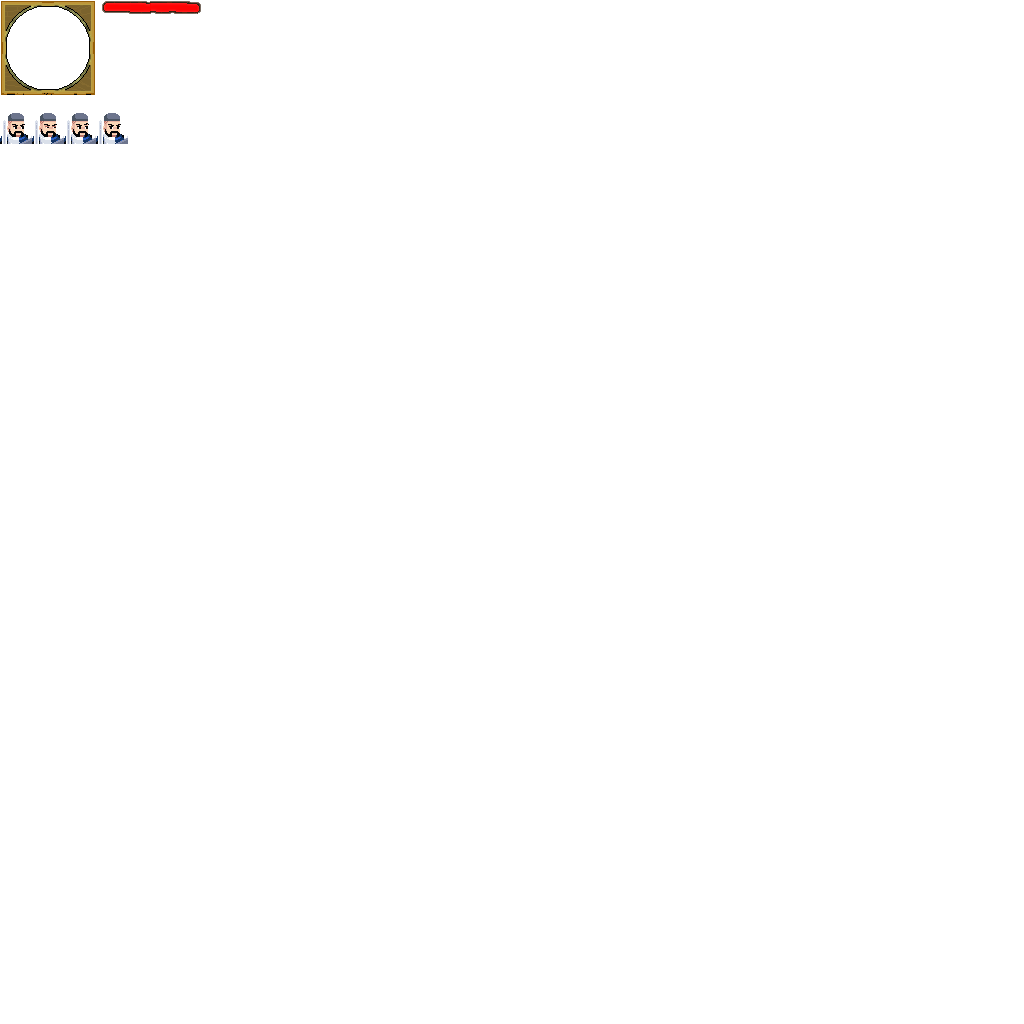
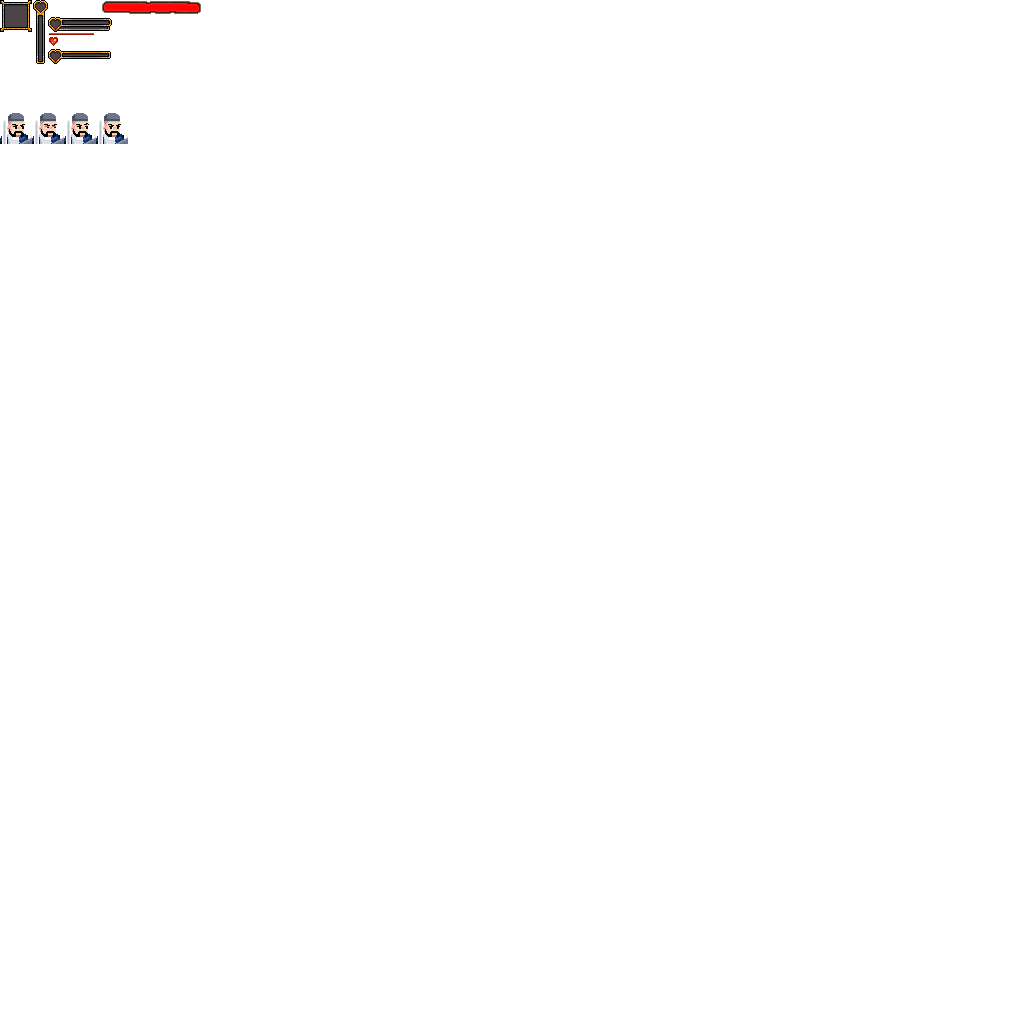
adds new ui, gl-scissor'd character portrait
* removed console input, unused anyways
 * new ui: healthbar and portrait frame
 * tiny glScissor experiment with correct highdpi handling

Changed region(s): [[0.0, 0.0, 0.125, 0.0938]]

diff --git a/src/scenes/battle.c b/src/scenes/battle.c
@@ -532,22 +532,22 @@ static void draw(struct scene_battle_s *scene, struct engine_s *engine) {
 	// draw ui
 	pipeline_reset(&g_ui_pipeline);
 	{
-		drawcmd_t cmd = DRAWCMD_INIT;
-		cmd.size.x = 96 - 16;
-		cmd.size.y = 96 - 16;
-		cmd.position.x = 8.0f;
-		cmd.position.y = 8.0f;
-		cmd.position.z = 0.0f;
-		drawcmd_set_texture_subrect(&cmd, g_ui_pipeline.texture, ((int)engine->time_elapsed % 2) ? 0 : ((int)engine->time_elapsed % 7 == 0) ? 64 : 96, 112, 32, 32);
-		pipeline_emit(&g_ui_pipeline, &cmd);
-
+		drawcmd_t cmd;
 		cmd = DRAWCMD_INIT;
 		cmd.size.x = 96;
 		cmd.size.y = 96;
-		cmd.position.x = 0.0f;
-		cmd.position.y = 0.0f;
+		cmd.position.x = engine->window_width - 96 - 4;
+		cmd.position.y = 4;
 		cmd.position.z = 0.0f;
-		drawcmd_set_texture_subrect(&cmd, g_ui_pipeline.texture, 0, 0, 96, 96);
+		drawcmd_set_texture_subrect(&cmd, g_ui_pipeline.texture, 0, 0, 32, 32);
+		pipeline_emit(&g_ui_pipeline, &cmd);
+
+		cmd = DRAWCMD_INIT;
+		cmd.size.x = 48;
+		cmd.size.y = 196;
+		cmd.position.x = 1;
+		cmd.position.y = 4;
+		drawcmd_set_texture_subrect(&cmd, g_ui_pipeline.texture, 32, 0, 16, 64);
 		pipeline_emit(&g_ui_pipeline, &cmd);
 
 		float hp = fabsf(cosf(engine->time_elapsed));
@@ -570,7 +570,7 @@ static void draw(struct scene_battle_s *scene, struct engine_s *engine) {
 		glm_ortho(-size, size, -size * g_engine->window_aspect, size * g_engine->window_aspect, 1.0f, 500.0f, perspective);
 		mat4 view = GLM_MAT4_IDENTITY_INIT;
 		mat4 model = GLM_MAT4_IDENTITY_INIT;
-		glm_translate(model, (vec3){ -100.0f, 0.0f, -200.0f });
+		glm_translate(model, (vec3){ 0.0f, -200.0f, -300.0f });
 		glm_rotate_x(model, glm_rad(35.0f), model);
 		glm_rotate_y(model, glm_rad(sinf(g_engine->time_elapsed * 2.0f) * 80.0f), model);
 		glm_scale(model, (vec3){ 100.0f, 100.0f, 100.0f});
@@ -585,8 +585,22 @@ static void draw(struct scene_battle_s *scene, struct engine_s *engine) {
 
 		// draw
 		glEnable(GL_DEPTH_TEST);
+
 		shader_set_uniform_mat3(&g_model.shader, "u_normalMatrix", (float*)normalMatrix);
 		model_draw(&g_model, perspective, view, model);
+
+		// model 2
+		glm_mat4_identity(model);
+		glm_translate(model, (vec3){ engine->window_width - 100.0f, engine->window_height - 240.0f, -300.0f });
+		glm_rotate_x(model, glm_rad(10.0f + cosf(g_engine->time_elapsed) * 10.0f), model);
+		glm_rotate_y(model, glm_rad(sinf(g_engine->time_elapsed) * 40.0f), model);
+		glm_scale(model, (vec3){ 75.0f, 75.0f, 75.0f});
+		const float pr = engine->window_pixel_ratio;
+		glEnable(GL_SCISSOR_TEST);
+		glScissor(engine->window_width * pr - 85.0f * pr, engine->window_height * pr - 85.0f * pr, 66 * pr, 66 * pr);
+		model_draw(&g_model, perspective, view, model);
+		glDisable(GL_SCISSOR_TEST);
+
 		glDisable(GL_DEPTH_TEST);
 	}
 }

diff --git a/src/engine.c b/src/engine.c
@@ -223,7 +223,6 @@ static void on_window_resized(struct engine_s *engine, int w, int h) {
 	glViewport(0, 0, w * window_dpi_scale_x, h * window_dpi_scale_y);
 	glm_ortho(0.0f, w, h, 0.0f, -1.0f, 1.0f, engine->u_projection);
 	//glm_ortho(-1.0f, 1.0f, -1.0f * engine->window_aspect, 1.0f * engine->window_aspect, -1.0f, 1.0f, engine->u_projection);
-
 }
 
 
@@ -476,10 +475,8 @@ static void engine_poll_events(struct engine_s *engine) {
 				}
 				break;
 			case SDL_TEXTINPUT:
-				console_add_input_text(engine->console, event.text.text);
 				break;
 			case SDL_TEXTEDITING:
-
 				break;
 			case SDL_KEYDOWN:
 			case SDL_KEYUP:
@@ -576,7 +573,7 @@ static void engine_gameserver_receive(struct engine_s *engine) {
 			// handle multiple json objects in a single message
 			const char *begin = data;
 			while (begin != NULL && begin < data + data_len) {
-				// find the end of this object
+				// TODO: this is garbage. find the end of this object
 				const char *end = str_match_bracket(begin, data_len, '{', '}');
 				if (end == NULL) break;
 

diff --git a/src/gui/console.c b/src/gui/console.c
@@ -21,17 +21,12 @@ static void get_color_for_msg(struct console_msg_s *, NVGcolor *bg, NVGcolor *fg
 void console_init(struct console_s *console) {
 	console->messages_max = 16;
 	console->messages_count = 0;
-	console->input_text_maxlen = 1024;
-	console->input_text = malloc(console->input_text_maxlen * sizeof(char));
 }
 
 void console_destroy(struct console_s *console) {
 	for (size_t i = 0; i < console->messages_count; ++i) {
 		free(console->messages[i].message);
 	}
-
-	free(console->input_text);
-	console->input_text_maxlen = 0;
 }
 
 void console_update(struct console_s *console, struct engine_s *engine, float dt) {
@@ -134,11 +129,6 @@ void console_draw(struct console_s *console, struct engine_s *engine) {
 		nvgText(vg, msg_x, msg_y + 1.0f, msg->message, NULL);
 	}
 
-}
-
-void console_add_input_text(struct console_s *console, char *text) {
-	// TODO: check length, realloc when needed.
-	strcat(console->input_text, text);
 }
 
 void console_log(struct engine_s *engine, char *fmt, ...) {

diff --git a/src/gui/console.h b/src/gui/console.h
@@ -33,9 +33,6 @@ struct console_s {
 	struct console_msg_s messages[16];
 	size_t messages_max;
 	size_t messages_count;
-
-	char *input_text;
-	size_t input_text_maxlen;
 };
 
 void console_init(struct console_s *);
@@ -44,7 +41,6 @@ void console_destroy(struct console_s *);
 void console_update(struct console_s *, struct engine_s *, float dt);
 void console_draw(struct console_s *, struct engine_s *);
 
-void console_add_input_text(struct console_s *, char *text);
 void console_log(struct engine_s *, char *fmt, ...);
 void console_log_ex(struct engine_s *, enum console_msg_type type, float duration, char *fmt, ...);
 
